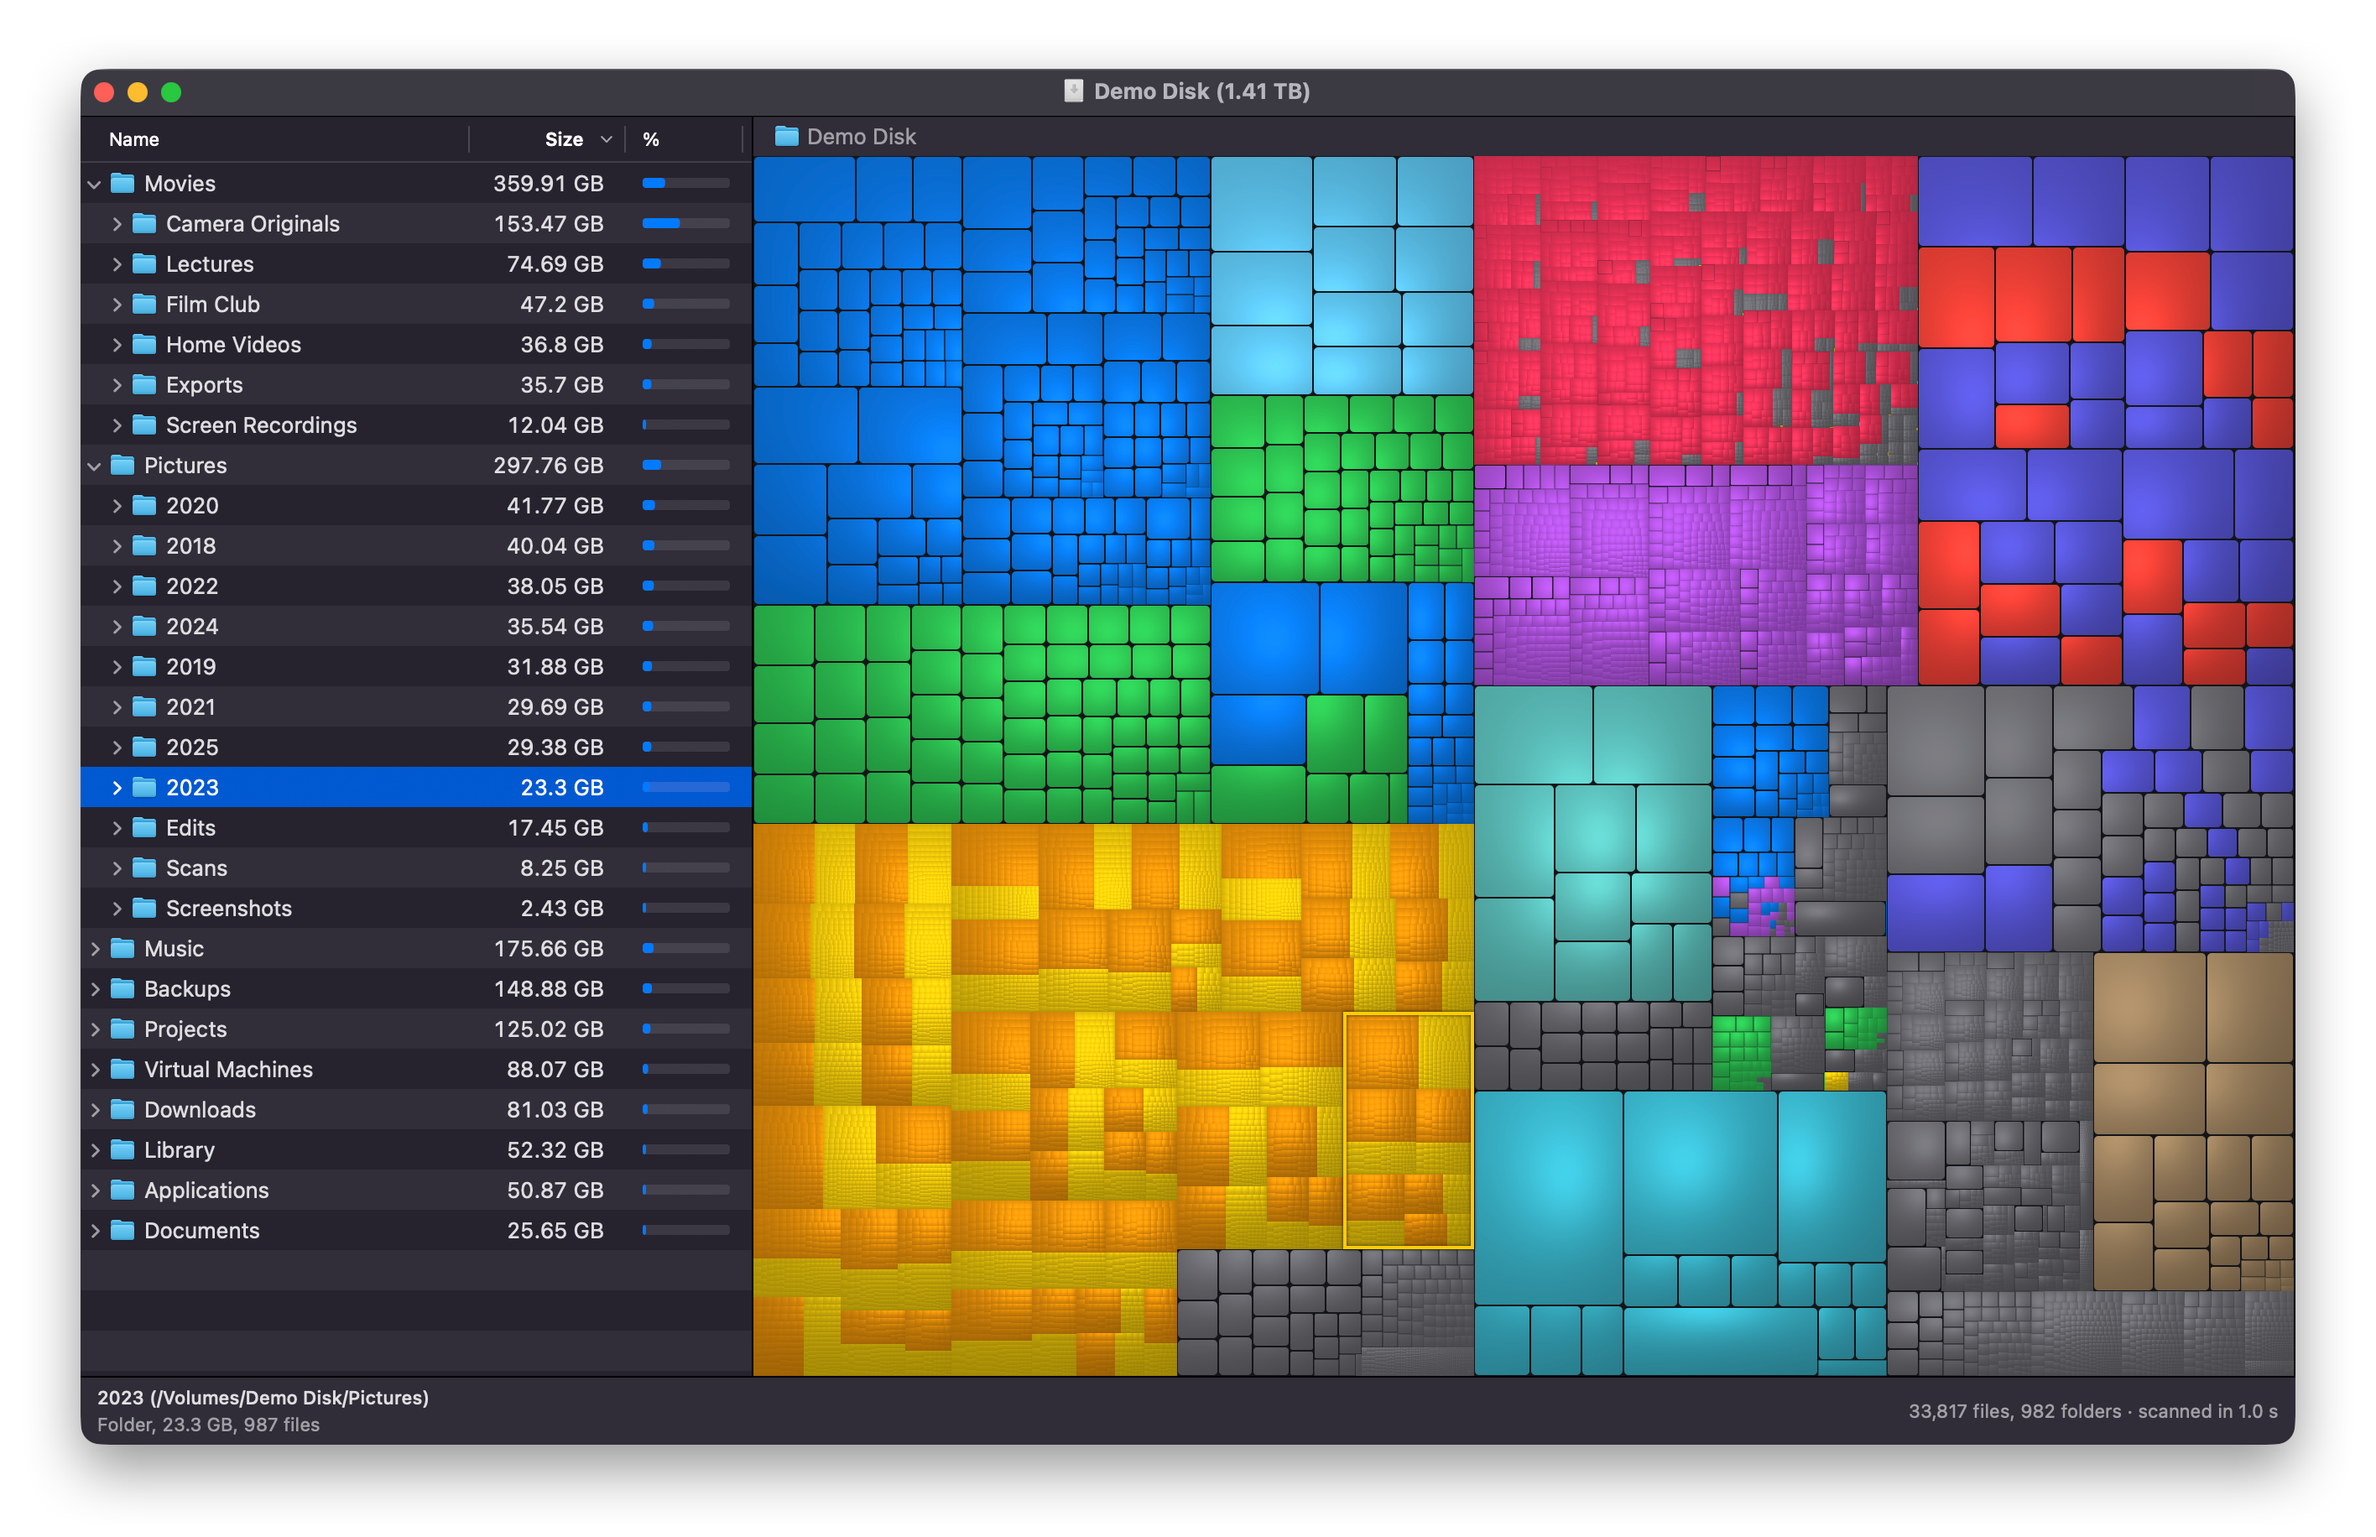
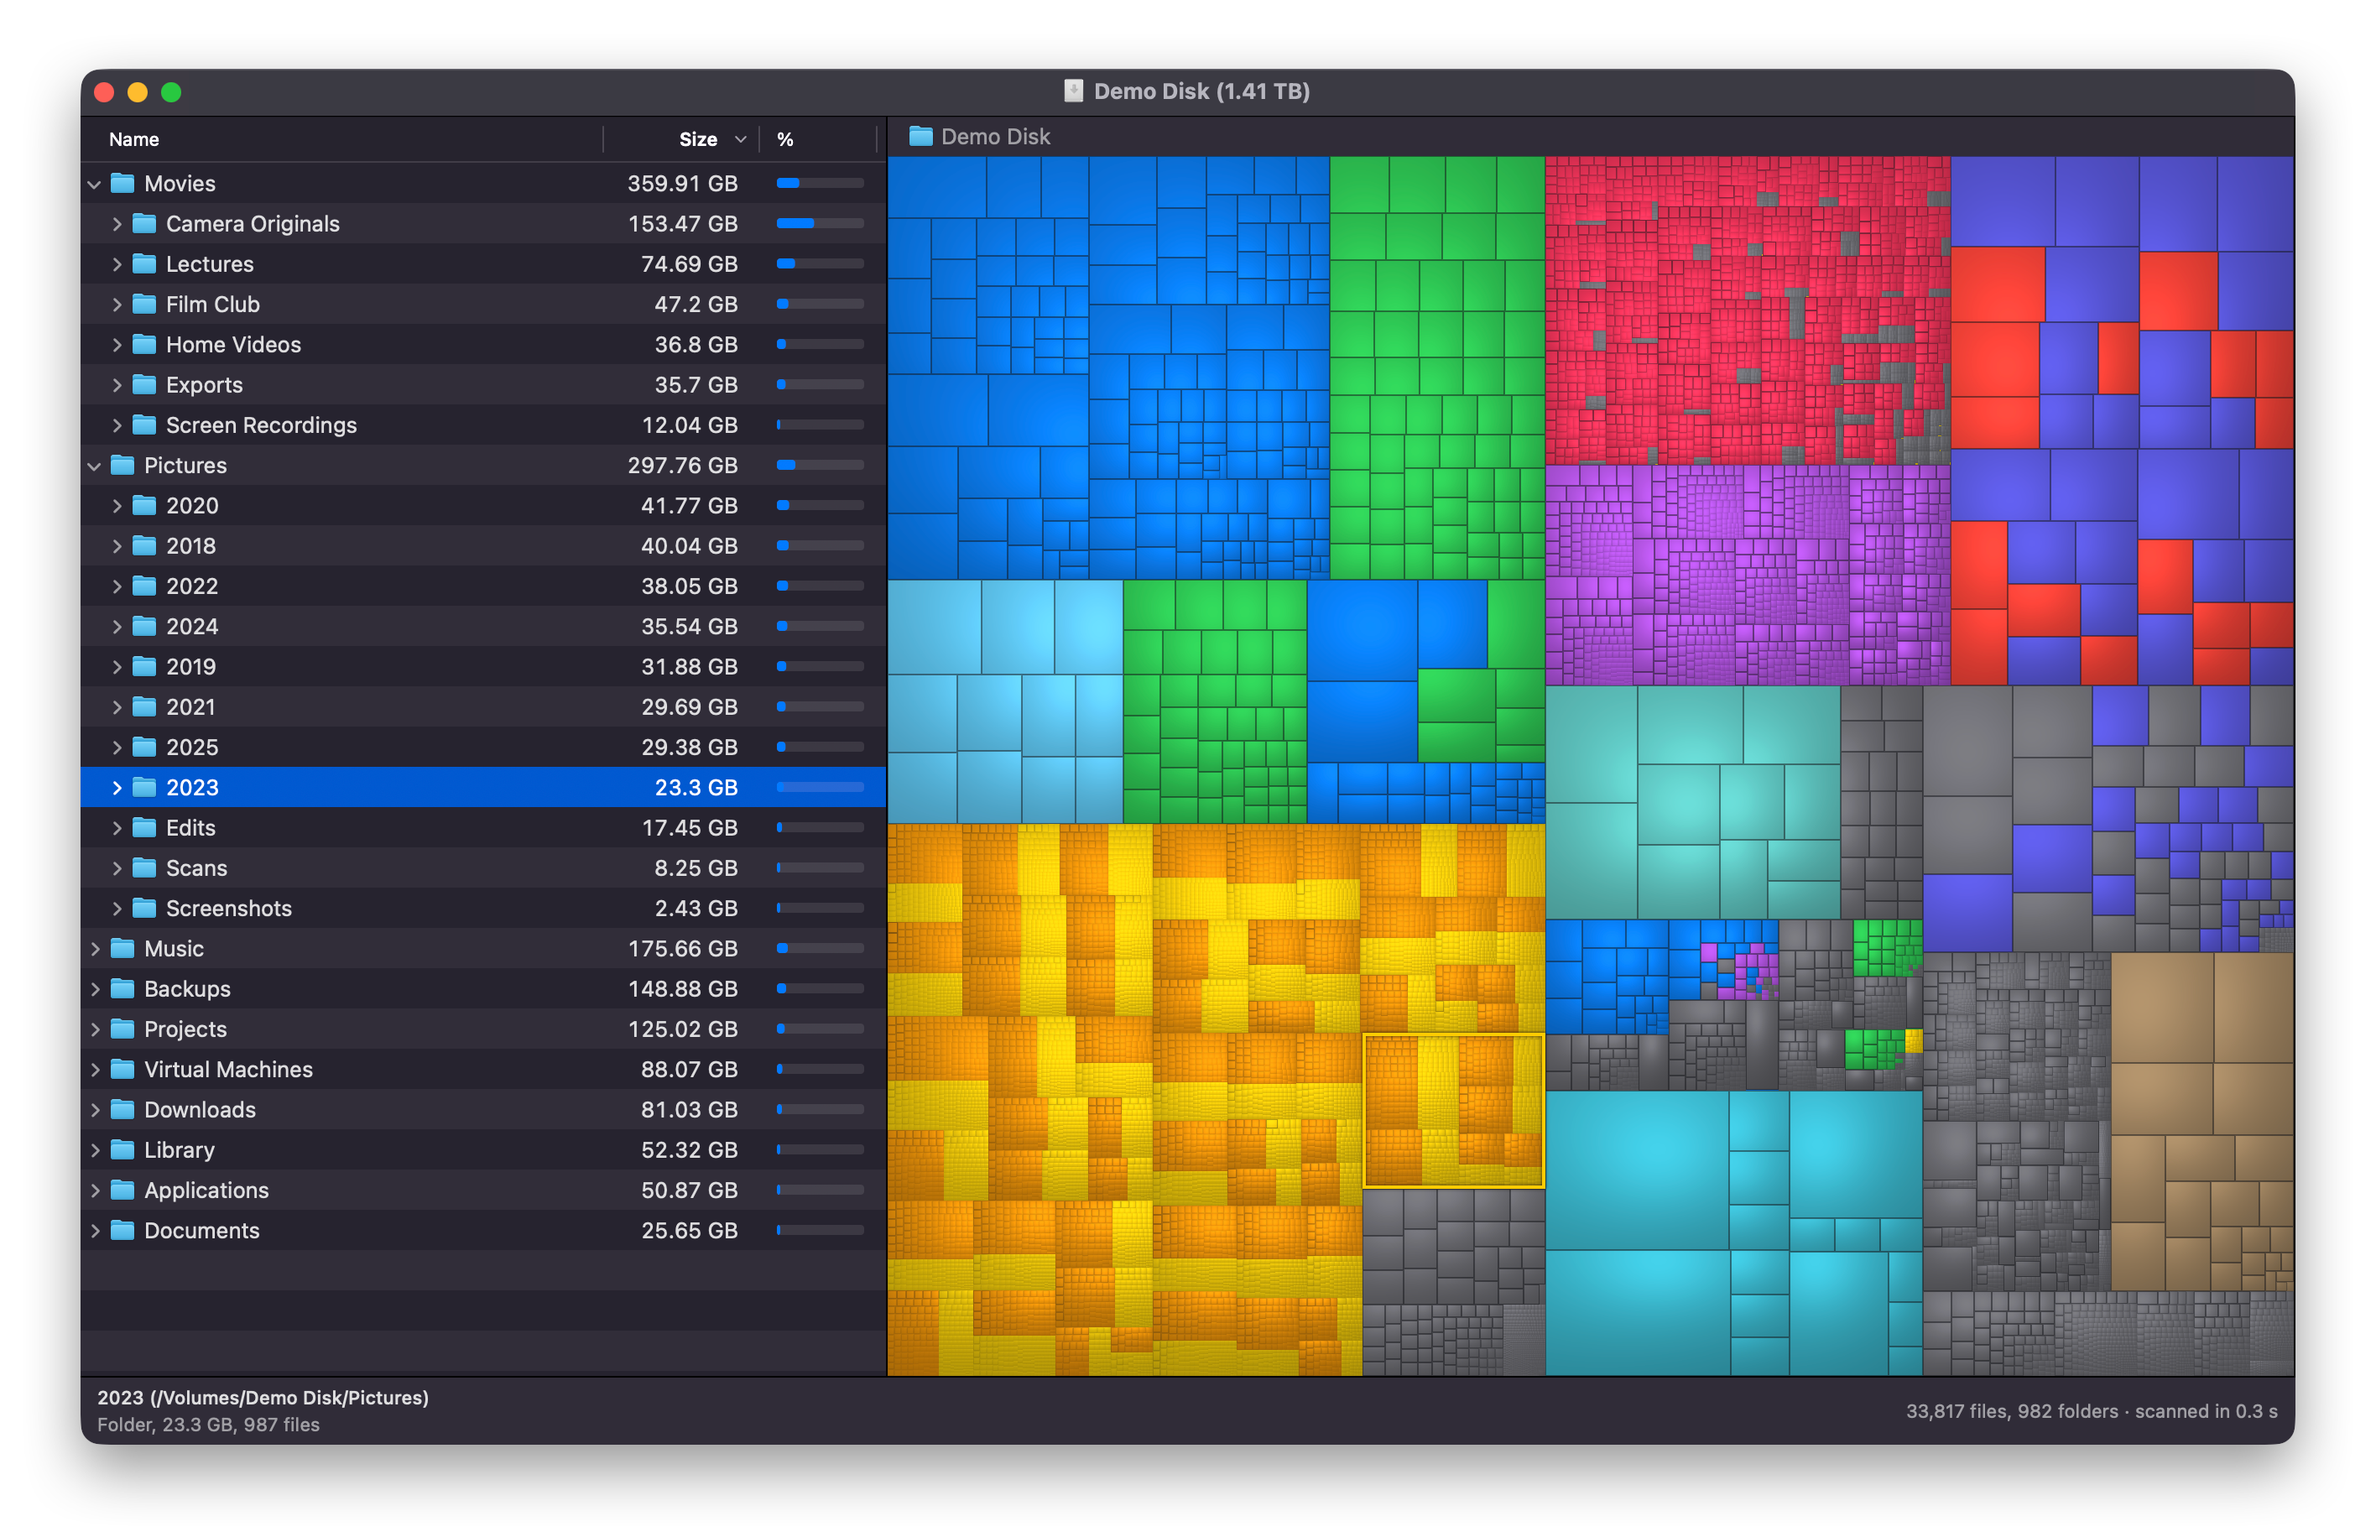
Thin the gaps and square the tiles
Tiles keep their cushions, now gentler, with thinner gaps and square
corners. The README's picture shows the result.

diff --git a/Sources/TreemapMetal/TreemapRenderer.swift b/Sources/TreemapMetal/TreemapRenderer.swift
@@ -26,9 +26,9 @@ public final class TreemapRenderer: @unchecked Sendable {
         /// How much of the light past full colour turns into white.
         public var spill: Float = 0.25
         /// Space kept clear on each side of a tile, in points.
-        public var gap: Float = 0.5
+        public var gap: Float = 0.25
         /// How round the corners of a tile are, in points.
-        public var radius: Float = 2.5
+        public var radius: Float = 0
 
         public init() {}
     }
@@ -281,8 +281,8 @@ public final class TreemapRenderer: @unchecked Sendable {
         float excess = max(max(color.r, max(color.g, color.b)) - 1.0, 0.0);
         color = min(color + excess * uniforms.spill, 1.0);
 
-        // Large tiles stand apart, as rounded tiles with a gap between them. Small ones lose both
-        // gradually, or a folder of thousands of files would turn into a field of dark dots.
+        // Large tiles stand apart, with a gap between them and any rounding of their corners. Small
+        // ones lose both gradually, or a folder of thousands of files would turn into dark dots.
         float shortest = min(in.size.x, in.size.y);
         float gap = uniforms.gap * smoothstep(10.0, 30.0, shortest / max(uniforms.gap, 0.001));
         float radius = uniforms.radius * smoothstep(2.8, 8.8, shortest / max(uniforms.radius, 0.001));

diff --git a/Tests/DiskCoreTests/LayoutTests.swift b/Tests/DiskCoreTests/LayoutTests.swift
@@ -229,8 +229,7 @@ import TreemapMetal
         #expect(center.b > 200)
         #expect(center.r > corner.r, "the highlight washes out towards white, most of all in the middle")
         #expect(center.r < 64, "gently: the colour stays recognisable")
-        let outside = pixel(image, x: 0, y: 0)
-        #expect(outside.b < 40, "a large tile has rounded corners, with the background showing")
+        #expect(pixel(image, x: 0, y: 100).b < pixel(image, x: 2, y: 100).b, "a large tile stands apart from what is next to it")
     }
 
     @Test func smallTilesGoWithoutGapsAndRounding() throws {

diff --git a/Sources/DiskCore/TreemapLayout.swift b/Sources/DiskCore/TreemapLayout.swift
@@ -12,7 +12,7 @@ public struct TreemapTile: Sendable {
 /// How pronounced the cushions look. See "Cushion Treemaps" (van Wijk, van de Wetering, 1999).
 public struct CushionParameters: Sendable {
     /// The ridge height of the outermost level.
-    public var height = 0.22
+    public var height = 0.16
     /// How much lower each deeper level's ridge is.
     public var falloff = 0.90
 

diff --git a/README.md b/README.md
@@ -101,7 +101,7 @@ Your own documents, photos, mail and the system are never suggested. The suggest
 | Scanner | `Sources/DiskCore/DiskScanner.swift` | Reads directories with `getattrlistbulk(2)` on all cores. Counts hard links once and stops at mount points. |
 | File tree | `Sources/DiskCore/FileTree.swift` | 48 bytes per file in flat arenas, addressed by index. Nothing moves, and there is no reference counting per file. |
 | Treemap layout | `Sources/DiskCore/TreemapLayout.swift` | Squarified layout (Bruls, Huizing, van Wijk). Merges anything below a pixel, so its cost follows the pixels on screen rather than the number of files. |
-| Rendering | `Sources/TreemapMetal/TreemapRenderer.swift` | Cushion shading (van Wijk, van de Wetering) in a Metal fragment shader, which also rounds large tiles and sets them apart. The shader compiles at launch, so no Metal toolchain is needed to build. |
+| Rendering | `Sources/TreemapMetal/TreemapRenderer.swift` | Cushion shading (van Wijk, van de Wetering) in a Metal fragment shader, which also sets large tiles apart. The shader compiles at launch, so no Metal toolchain is needed to build. |
 | Interface | `Sources/DiskInventoryM/` | AppKit, written in code. `NSOutlineView` copes with folders of any size. |
 | Cleanup | `Sources/DiskCore/Cleanup.swift` | Matches the rules in `Resources/CleanupRules.json` against the tree already in memory, so it reads nothing from disk. |
 | `dim` | `Sources/dim/` | Command line companion: `dim scan <path>`, `dim render <path> <out.png>`. |
